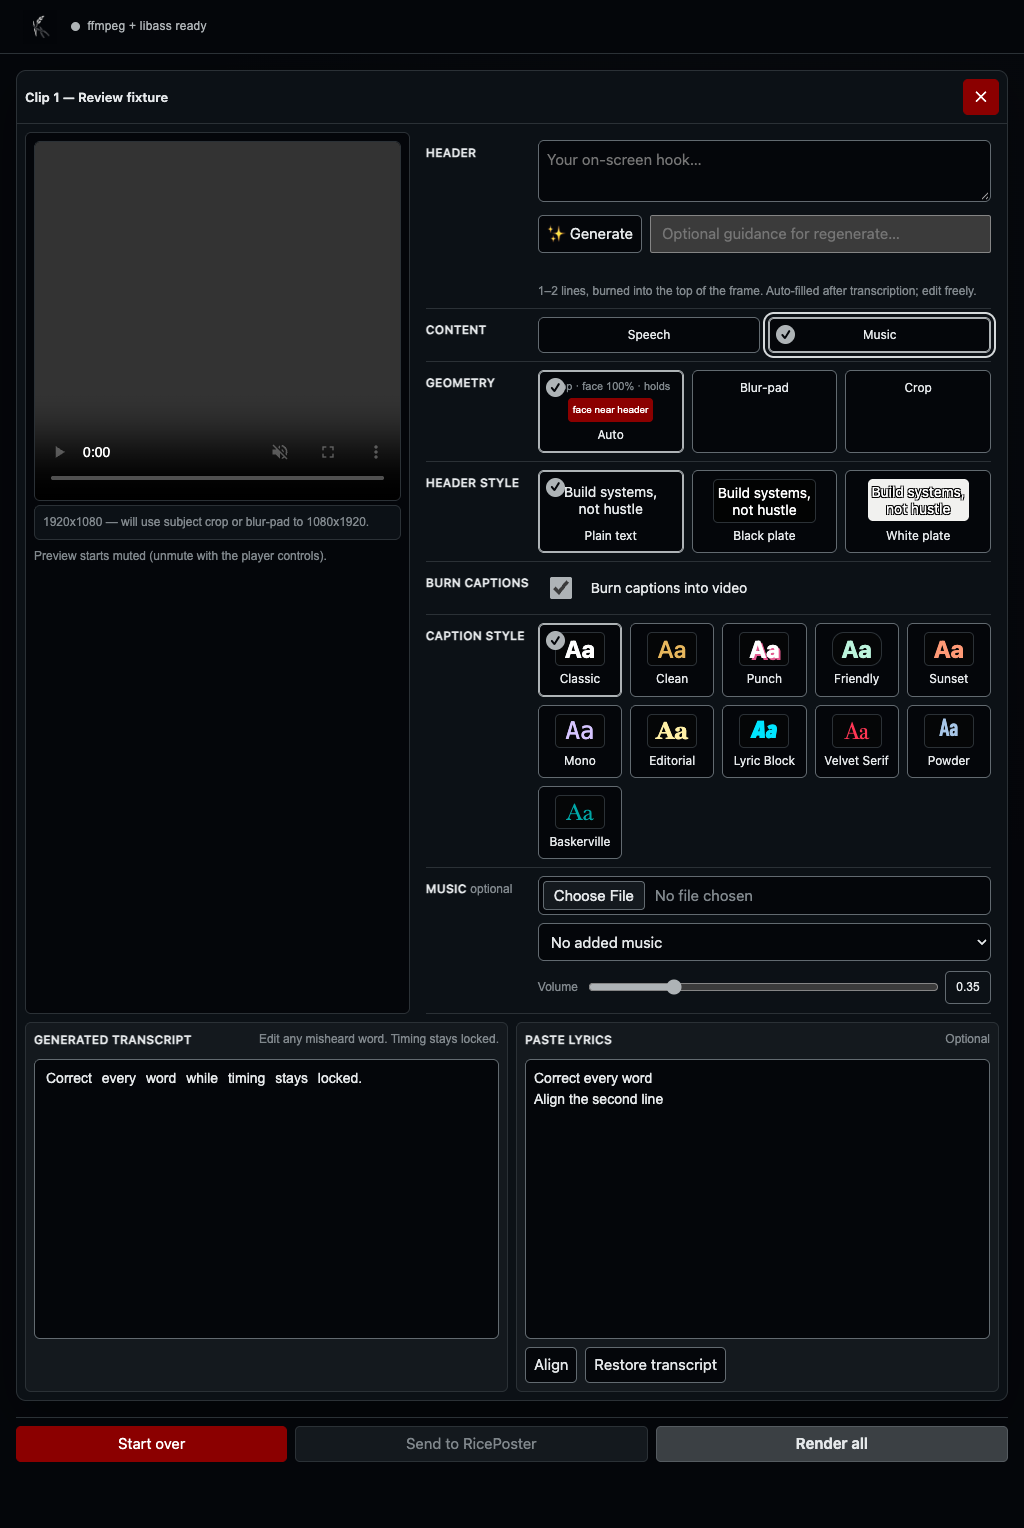
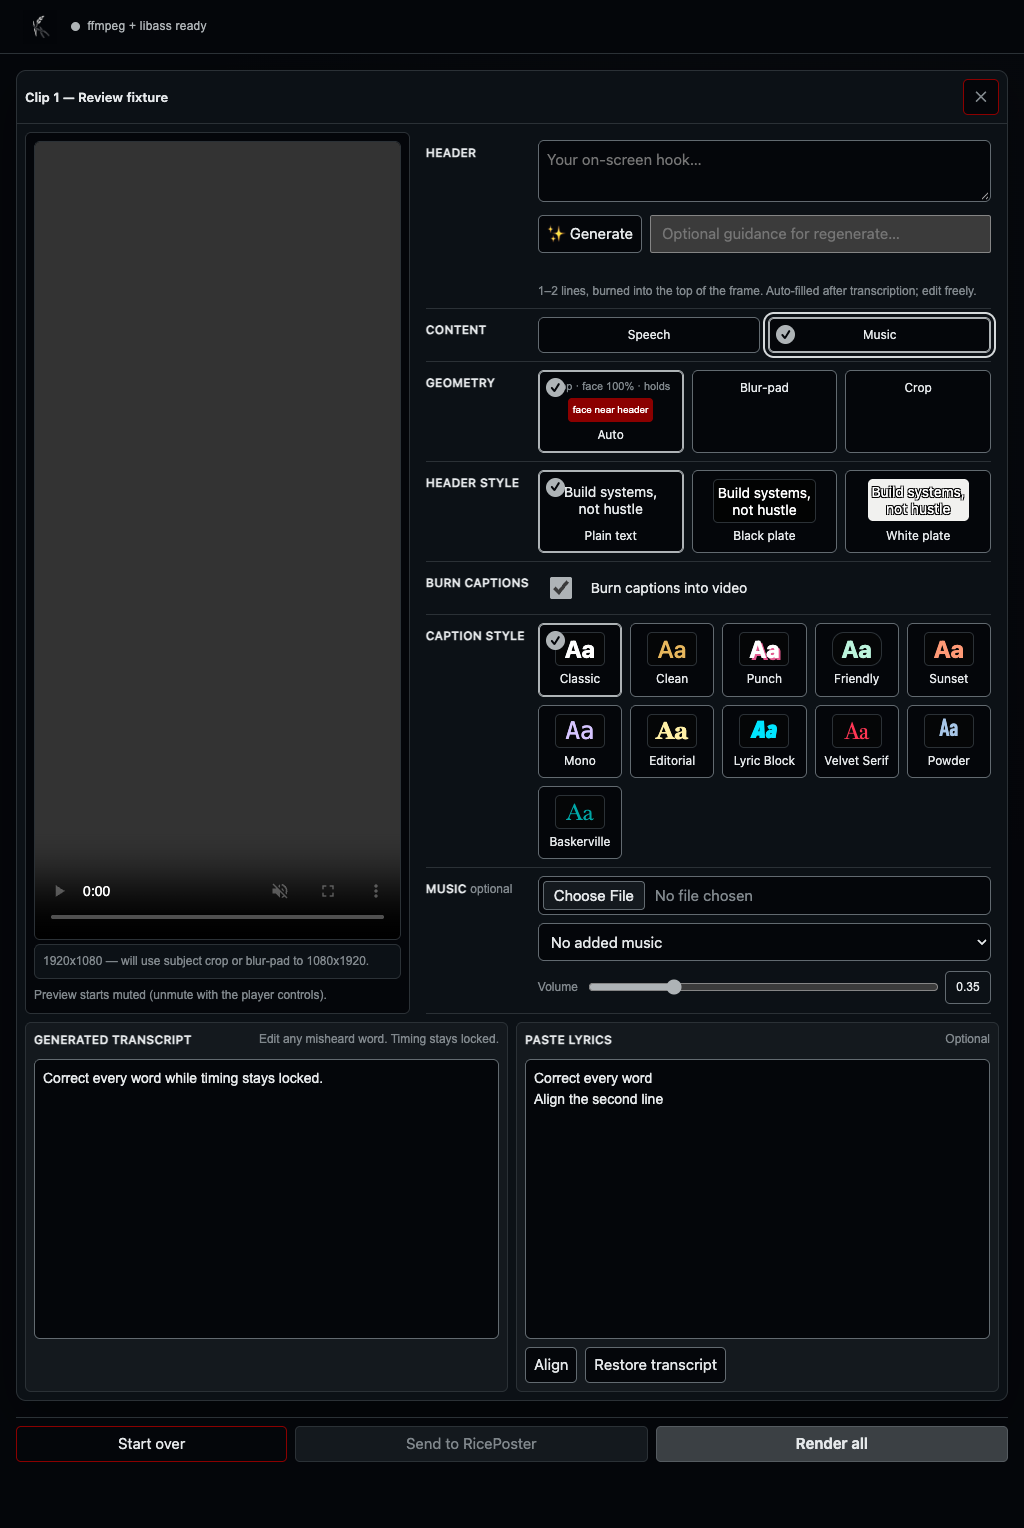
Refine editor transcript spacing, preview, and red controls

diff --git a/web/style.css b/web/style.css
@@ -48,11 +48,11 @@ body:has(#batch-panel:not(.hidden)) main { width: 100%; padding: calc(var(--edit
 .clip-head { display: flex; min-height: 48px; padding: var(--editor-space); align-items: center; gap: var(--editor-space); border-bottom: 1px solid var(--hairline); }
 .clip-title { overflow: hidden; font-size: 13px; font-weight: 620; text-overflow: ellipsis; white-space: nowrap; }
 .clip-head .clip-status { flex: 1; margin: 0; text-align: right; }
-.clip-remove { width: 36px; min-height: 36px; padding: 0; border-color: #8b0000; background: #8b0000; color: #fff; }
+.clip-remove { width: 36px; min-height: 36px; padding: 0; border-color: #8b0000; color: var(--muted); }
 .review-grid { display: grid; grid-template-columns: repeat(10, minmax(0, 1fr)); gap: var(--editor-space); padding: var(--editor-space); }
-.preview-col { grid-column: 1 / span 4; grid-row: 1; min-width: 0; padding: var(--editor-space); border: 1px solid var(--hairline); border-radius: 6px; background: var(--backdrop); }
+.preview-col { display: flex; grid-column: 1 / span 4; grid-row: 1; min-width: 0; padding: var(--editor-space); flex-direction: column; border: 1px solid var(--hairline); border-radius: 6px; background: var(--backdrop); }
 .preview-col video, .output-video { display: block; width: 100%; background: #000; }
-.source-video { max-height: 360px; border: 1px solid var(--hairline); border-radius: 6px; object-fit: contain; }
+.source-video { height: 360px; min-height: 360px; flex: 1 1 360px; border: 1px solid var(--hairline); border-radius: 6px; object-fit: contain; }
 .output-video { max-height: 680px; margin-bottom: 16px; border-radius: 6px; object-fit: contain; }
 .geo-note { margin-top: var(--editor-space); padding: var(--editor-space); border: 1px solid var(--hairline); border-radius: 6px; background: var(--midground); font-family: Arial, sans-serif; }
 
@@ -117,7 +117,7 @@ input[type="file"]::file-selector-button { margin-right: 10px; border: 1px solid
 .text-heading .field-label { padding: 0; }
 .transcript, .lyrics-input { display: block; width: 100%; height: clamp(280px, 36vh, 440px); min-height: 280px; max-height: 440px; overflow: auto; padding: var(--editor-space); border: 1px solid var(--control-line); border-radius: 6px; background: var(--backdrop); color: var(--text); font: 14px/1.5 Arial, sans-serif; letter-spacing: normal; }
 .lyrics-input { resize: none; }
-.transcript .word { display: inline-block; padding: 0 3px; border-radius: 3px; outline: none; }
+.transcript .word { display: inline-block; padding: 0; border-radius: 3px; outline: none; }
 .transcript .word:focus { background: rgb(174 179 182 / 20%); outline: 1px solid var(--rice); }
 .lyrics { grid-column: 6 / -1; grid-row: 2; }
 .lyrics[hidden] { display: none; }
@@ -131,11 +131,12 @@ input[type="file"]::file-selector-button { margin-right: 10px; border: 1px solid
 
 .clip-result { padding: 16px; border-top: 1px solid var(--hairline); }
 .batch-actions { display: grid; grid-template-columns: 1fr 1.3fr 1.3fr; gap: var(--editor-space); margin-top: var(--editor-space); padding: var(--editor-space) 0; border-top: 1px solid var(--hairline); background: var(--backdrop); }
-#restart-btn { border-color: #8b0000; background: #8b0000; color: #fff; }
+#restart-btn { border-color: #8b0000; }
 #batch-panel button { min-height: 36px; padding: calc(var(--editor-space) * 0.5) var(--editor-space); }
 #batch-panel .clip-remove { padding: 0; }
 button, .primary { display: inline-flex; min-height: 44px; padding: 9px 16px; align-items: center; justify-content: center; border: 1px solid var(--control-line); border-radius: 5px; background: var(--backdrop); color: var(--text); cursor: pointer; text-decoration: none; }
 button:hover, .primary:hover { border-color: var(--rice); }
+.clip-remove:hover, #restart-btn:hover { border-color: #8b0000; }
 .primary { border-color: #555b60; background: var(--charcoal); font-weight: 650; }
 button:disabled, .primary:disabled { border-color: var(--hairline); background: var(--interior); color: var(--muted); cursor: not-allowed; }
 button:focus-visible, .primary:focus-visible, textarea:focus-visible, select:focus-visible, input:focus-visible { outline: 2px solid var(--focus); outline-offset: 2px; }
@@ -146,7 +147,7 @@ button:focus-visible, .primary:focus-visible, textarea:focus-visible, select:foc
 .cache-actions button { min-height: 36px; padding: 6px 12px; color: var(--muted); }
 
 @media (max-width: 1120px) { .music-controls { grid-template-columns: 1fr; } }
-@media (max-width: 880px) { body:has(#batch-panel:not(.hidden)) main { padding: var(--editor-space); } .review-grid { display: flex; flex-direction: column; } .preview-col, .edit-col, .transcript-panel, .lyrics { width: 100%; } .edit-col { padding: 0 var(--editor-space); } .source-video { max-height: 360px; } }
+@media (max-width: 880px) { body:has(#batch-panel:not(.hidden)) main { padding: var(--editor-space); } .review-grid { display: flex; flex-direction: column; } .preview-col, .edit-col, .transcript-panel, .lyrics { width: 100%; } .edit-col { padding: 0 var(--editor-space); } .source-video { height: min(80vh, 900px); min-height: 0; flex: 0 0 auto; } }
 @media (max-width: 620px) { .topbar { padding-inline: 12px; } .field-row { grid-template-columns: 1fr; gap: calc(var(--editor-space) * 0.5); } .field > label, .field-label, .field legend { padding-top: 0; } .field legend { float: none; width: auto; } .field legend + * { margin-left: 0; margin-top: calc(var(--editor-space) * 0.5); } .header-choice-grid { grid-template-columns: repeat(3, minmax(0, 1fr)); } .caption-choice-grid { grid-template-columns: repeat(2, minmax(0, 1fr)); } .batch-actions { position: static; grid-template-columns: 1fr; } .cache-actions { align-items: stretch; flex-direction: column; } .dropzone { min-height: 200px; padding-inline: 16px; } }
 @media (pointer: coarse) { #batch-panel button, #batch-panel select, #batch-panel input[type="file"], #batch-panel .choice-card, #batch-panel .switch-label, #batch-panel .vol { min-height: 44px; } #batch-panel .clip-remove { width: 44px; } }
 @media (prefers-reduced-motion: reduce) { *, *::before, *::after { scroll-behavior: auto !important; transition: none !important; } }

diff --git a/docs/design/editor-layout-reference.html b/docs/design/editor-layout-reference.html
@@ -17,10 +17,10 @@
     #rc-editor-reference .clip-title-row { display: flex; min-height: 38px; align-items: center; gap: 10px; padding: 5px 10px 5px 12px; border-bottom: 1px solid #2b3136; }
     #rc-editor-reference .clip-title { overflow: hidden; flex: 1; font-size: 13px; font-weight: 700; text-overflow: ellipsis; white-space: nowrap; }
     #rc-editor-reference .clip-status { color: #aeb3b6; font-size: 12px; white-space: nowrap; }
-    #rc-editor-reference .remove { width: 36px; height: 36px; border: 1px solid #8B0000; border-radius: 4px; background: #8B0000; color: #fff; font-size: 16px; line-height: 1; }
+    #rc-editor-reference .remove { width: 36px; height: 36px; border: 1px solid #8B0000; border-radius: 4px; background: #04060a; color: #80878c; font-size: 16px; line-height: 1; }
     #rc-editor-reference .stage { display: grid; gap: var(--editor-space); padding: var(--editor-space); }
-    #rc-editor-reference .preview { grid-area: preview; min-width: 0; }
-    #rc-editor-reference .video { position: relative; display: grid; height: 253px; place-items: center; overflow: hidden; border: 1px solid #2b3136; border-radius: 5px; background: #000; }
+    #rc-editor-reference .preview { display: flex; grid-area: preview; min-width: 0; flex-direction: column; }
+    #rc-editor-reference .video { position: relative; display: grid; min-height: 360px; flex: 1 1 360px; place-items: center; overflow: hidden; border: 1px solid #2b3136; border-radius: 5px; background: #000; }
     #rc-editor-reference .video::after { position: absolute; right: 8px; bottom: 9px; left: 8px; height: 3px; background: linear-gradient(to right, #aeb3b6 0 28%, #626a70 28% 100%); content: ""; }
     #rc-editor-reference .play { position: absolute; bottom: 18px; left: 13px; color: #fff; font-size: 11px; }
     #rc-editor-reference .player-icons { position: absolute; right: 14px; bottom: 18px; color: #fff; font-size: 13px; letter-spacing: 12px; }
@@ -68,7 +68,7 @@
     #rc-editor-reference .text-foot .muted { margin-left: auto; }
     #rc-editor-reference .actions { display: grid; grid-template-columns: 1fr 1.3fr 1.3fr; gap: var(--editor-space); margin-top: var(--editor-space); padding-top: var(--editor-space); border-top: 1px solid #2b3136; }
     #rc-editor-reference .actions button { min-height: 36px; padding: 5px 8px; border: 1px solid #626a70; border-radius: 4px; background: #04060a; color: #e5e8ea; font: 12px Arial, sans-serif; }
-    #rc-editor-reference .actions .start-over { border-color: #8B0000; background: #8B0000; color: #fff; }
+    #rc-editor-reference .actions .start-over { border-color: #8B0000; }
     #rc-editor-reference .actions .render { background: #3b4044; font-weight: 700; }
     #rc-editor-reference.mode-speech .compare-panel { display: none; }
     #rc-editor-reference.mode-speech .transcript-panel { grid-column: 1 / -1; }
@@ -88,7 +88,7 @@
       #rc-editor-reference .settings { order: 2; }
       #rc-editor-reference .transcript-panel { order: 3; }
       #rc-editor-reference .compare-panel { order: 4; }
-      #rc-editor-reference .video { height: 220px !important; }
+      #rc-editor-reference .video { height: min(80vh, 900px) !important; min-height: 0; flex: none; }
       #rc-editor-reference .actions { grid-template-columns: 1fr; }
     }
     @media (pointer: coarse) {

diff --git a/scripts/check_editor_browser.py b/scripts/check_editor_browser.py
@@ -102,7 +102,6 @@ CHECKS = r"""
     const plan = { decision: "crop", reason: "header_zone", face_rate: 1, safe_rate: 1, warning: "header_zone" };
     applyGeometry(item, { width: 1920, height: 1080, crop_plan: plan, music_plan: plan });
     item.sourceVideoEl.style.aspectRatio = "9 / 16";
-    item.sourceVideoEl.style.height = "360px";
     item.words = "Correct every word while timing stays locked.".split(" ").map((text, i) => ({
       text, start: i * 0.2, end: (i + 1) * 0.2, line_start: i === 0,
     }));
@@ -128,6 +127,9 @@ CHECKS = r"""
   const card = rect(clip.el);
   const grid = rect(clip.reviewGridEl);
   const preview = rect(clip.el.querySelector(".preview-col"));
+  const video = rect(clip.sourceVideoEl);
+  const geoNote = rect(clip.geoEl);
+  const previewStatus = rect(clip.el.querySelector(".preview-status"));
   const settings = rect(clip.el.querySelector(".edit-col"));
   const settingsDocument = { ...settings, y: settings.y + scrollY, bottom: settings.bottom + scrollY };
   const transcriptPanel = rect(clip.el.querySelector(".transcript-panel"));
@@ -148,7 +150,10 @@ CHECKS = r"""
   check(preview.x >= grid.x && settings.right <= grid.right, "clip inset");
   check(card.right <= innerWidth - (wide ? unit * 2 : unit) + 1, "clip exceeds page");
   check(action.y >= card.bottom, "action bar overlaps clip content");
-  check(css(clip.sourceVideoEl).maxHeight === "360px", "video maximum height");
+  check(video.height >= 360, "preview minimum video height");
+  check(video.bottom <= geoNote.y && geoNote.bottom <= previewStatus.y, "notes follow video");
+  check(preview.bottom - previewStatus.bottom <= unit * 2 + 2, "preview has no unused space below video and notes");
+  check(css(clip.sourceVideoEl).objectFit === "contain", "video keeps its full frame");
   check(!clip.lyricsEl.hidden === (mode === "music"), "lyric visibility");
   if (wide) {
     check(near(preview.y, settings.y), "upper row alignment");
@@ -177,6 +182,11 @@ CHECKS = r"""
   }
   check(css(clip.transcriptEl).fontFamily === "Arial, sans-serif", "Arial transcript");
   check(clip.transcriptEl.querySelector(".word").isContentEditable, "rendered transcript word remains editable");
+  const words = clip.transcriptEl.querySelectorAll(".word");
+  const wordGap = words[1].getBoundingClientRect().left - words[0].getBoundingClientRect().right;
+  const measure = document.createElement("canvas").getContext("2d");
+  measure.font = css(clip.transcriptEl).font;
+  check(near(wordGap, measure.measureText(" ").width, 0.75), "generated words use ordinary text spacing");
   check(css(clip.transcriptEl).fontSize === "14px" && css(clip.transcriptEl).lineHeight === "21px", "reading scale");
   check(css(clip.lyricsInputEl).resize === "none", "lyrics cannot resize away from transcript");
   check(transcript.height >= 280 && transcript.height <= 440, "transcript height");
@@ -188,9 +198,11 @@ CHECKS = r"""
   check(css(clip.el.querySelector(".sample-mono")).fontFamily.includes("monospace"), "Mono sample font");
   const warning = clip.geometryEl.querySelector(".geometry-warning");
   check(!warning.hidden && warning.textContent === "face near header", "header warning remains visible and labeled");
-  for (const el of [warning, clip.el.querySelector(".clip-remove"), document.getElementById("restart-btn")]) {
-    check(css(el).backgroundColor === "rgb(139, 0, 0)", "dark-red fill");
-    check(css(el).color === "rgb(255, 255, 255)", "white control text");
+  check(css(warning).backgroundColor === "rgb(139, 0, 0)" && css(warning).color === "rgb(255, 255, 255)", "header warning keeps solid red treatment");
+  const normalButton = css(clip.el.querySelector(".header-generate"));
+  for (const el of [clip.el.querySelector(".clip-remove"), document.getElementById("restart-btn")]) {
+    check(css(el).backgroundColor === normalButton.backgroundColor, "red-bordered button uses normal interior");
+    check(css(el).borderTopColor === "rgb(139, 0, 0)", "red-bordered button edge");
   }
   const captionPlan = { decision: "crop", reason: "caption_zone", face_rate: 1, safe_rate: 1, warning: "caption_zone" };
   applyGeometry(clip, { width: 1920, height: 1080, crop_plan: captionPlan, music_plan: captionPlan });

diff --git a/docs/design/editor-layout-spec.md b/docs/design/editor-layout-spec.md
@@ -24,9 +24,10 @@ At viewport widths of **881 px and above**, the editor has two rows:
 
 1. **Upper row:** video preview and its existing geometry/source notes on the
    left; all existing editing and caption settings on the right. Target a
-   **40/60** preview-to-settings split. Keep the video near its current useful
-   size, with a maximum displayed height of **360 px**; expanding text is the
-   priority when more screen space becomes available. Condense Content,
+   **40/60** preview-to-settings split. Let the video player grow vertically to
+   use the preview side's available height, with the geometry and muted-playback
+   notes directly below it. Preserve the full video frame rather than cropping
+   it; portrait clips can retain side letterboxing. Condense Content,
    Geometry, Header style, Burn captions, Caption style, and optional Music
    controls into short, consistently spaced rows. Keep Header and Generate in
    the settings area.
@@ -71,6 +72,10 @@ existing Slate **15 px** body scale. Caption preset samples, including the actua
 **Mono** preset sample, keep their established treatment fonts because they
 preview rendered output.
 
+Generated transcript words have ordinary single-space separation, matching
+pasted-lyrics text. Editable word targets add no horizontal padding between
+words.
+
 Choice cards, row padding, and ordinary action buttons become shorter than in
 the current editor, while every interactive target remains at least **36 px**
 high for fine pointers and **44 px** for coarse pointers. Do not reduce text
@@ -78,16 +83,13 @@ size to fit controls; wrap caption choices into more rows when needed.
 
 ## Color amendment
 
-Use **`#8B0000`** as a solid fill with **white text** for these three controls
-only:
+Use **`#8B0000`** as a solid fill with **white text** for the
+`face near header` warning badge.
 
-- the `face near header` warning badge;
-- each clip's remove `×` button; and
-- the batch `Start over` button.
-
-The warning remains text-labeled. Keep visible focus indication. The Slate
-palette, other status/error colors, logo, and caption preset colors remain as
-already specified.
+Each clip's remove `×` and the batch `Start over` button retain the original
+Slate dark interior and text treatment, with **`#8B0000` borders**. The
+warning remains text-labeled. Keep visible focus indication. The Slate palette,
+other status/error colors, logo, and caption preset colors remain as specified.
 
 ## Responsive layout
 
@@ -112,10 +114,13 @@ styles rather than relying on a screenshot alone:
 - Music transcript and lyric panes have equal computed width and height and
   aligned top edges; Speech transcript spans the full lower row;
 - settings remain in the same location and order across modes;
+- the video player fills the preview side down to its notes on desktop and
+  grows with viewport height on narrow screens without cropping;
 - transcript and lyrics use identical computed Arial font, line height,
   padding, border, and background; small grey operational text also uses Arial;
-- warning, remove, and Start over have computed `#8B0000` backgrounds and
-  white text;
+- generated word gaps match a normal space in the shared reading font;
+- the header warning has a `#8B0000` fill and white text; remove and Start
+  over have `#8B0000` borders and the usual Slate button interior;
 - controls remain reachable by keyboard with visible focus, and the action
   bar does not obscure editing at any tested viewport.
 
@@ -126,6 +131,8 @@ page.
 ## Decision record
 
 On 2026-09-23, the user selected **Balanced** from three rendered layouts, with
-the `#8B0000` amendment and a full-width Speech transcript. Settings retain
-their Music-mode position in Speech. The Settings rail and Text first options
-were considered but not selected.
+the initial `#8B0000` amendment and a full-width Speech transcript. Settings
+retain their Music-mode position in Speech. The Settings rail and Text first
+options were considered but not selected. On 2026-09-24, the user amended the
+preview height, transcript word spacing, and red-button fill from live usage;
+those amendments supersede the corresponding reference details.

diff --git a/docs/design/slate-ui-spec.md b/docs/design/slate-ui-spec.md
@@ -5,9 +5,9 @@ layout amendment is tracked in Issue #6.**
 
 The [editing page layout amendment](editor-layout-spec.md), ratified on
 2026-09-23, is the authority for current review-page geometry, spacing,
-operational text typography, and the three dark-red controls. The Slate concept
-image below remains the theme and identity reference, not the current review
-layout reference.
+operational text typography, and the red warning and button borders. The Slate
+concept image below remains the theme and identity reference, not the current
+review layout reference.
 
 Slate is the browser-interface theme for RiceClipper. It redesigns the existing
 local review workflow without changing its behavior, data contracts, rendering
@@ -167,7 +167,8 @@ both the visible toolbar symbol and the favicon.
 
 - `Render all` is the single solid charcoal primary action.
 - `Send to RicePoster` remains an outlined secondary action. `Start over` uses
-  the solid `#8B0000` treatment specified by the editing layout amendment.
+  the `#8B0000` border specified by the editing layout amendment, with the
+  normal Slate button interior.
 - Disabled controls must be visibly disabled and retain readable contrast.
 - Keyboard focus uses a rice-grey ring distinct from hover and selection.
 - Loading, ready, success, failure, and destructive states remain explicit in

diff --git a/docs/reviews/editor-layout/README.md b/docs/reviews/editor-layout/README.md
@@ -9,7 +9,8 @@ completed media render.
 
 The filenames identify mode and viewport: 390×844, 768×1024, 1024×768,
 1440×900, and 1920×1080. The script separately asserts computed pane geometry,
-spacing, typography, colors, overflow, keyboard focus, action-bar clearance,
-settings stability between modes, and coarse-pointer target size. It fails on
-JavaScript or console errors. Its detailed local results are written to
+preview height and note placement, normal transcript word spacing, typography,
+colors, overflow, keyboard focus, action-bar clearance, settings stability
+between modes, and coarse-pointer target size. It fails on JavaScript or console
+errors. Its detailed local results are written to
 `.riceclipper_work/editor-browser/results.json`.
